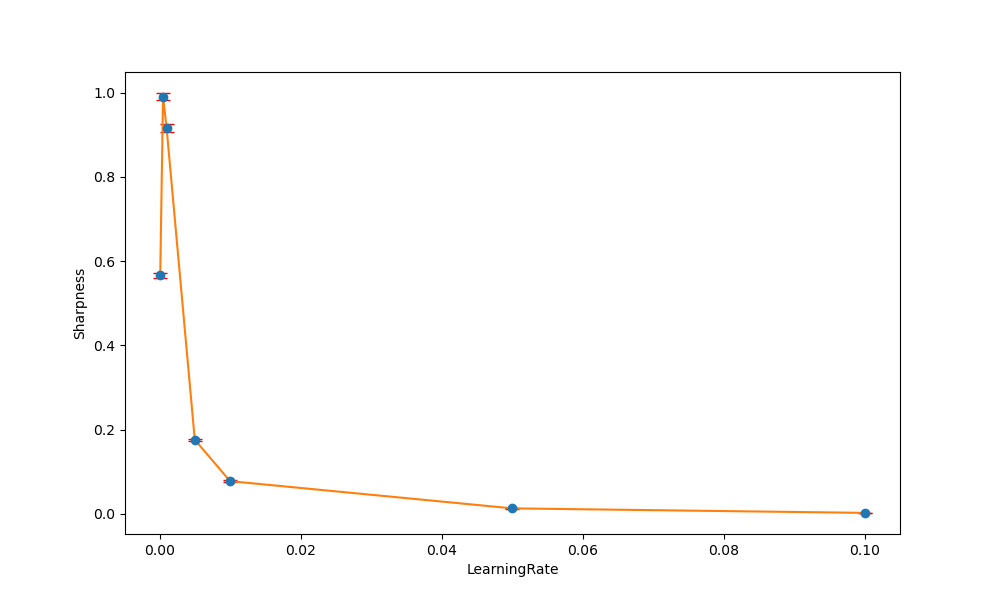
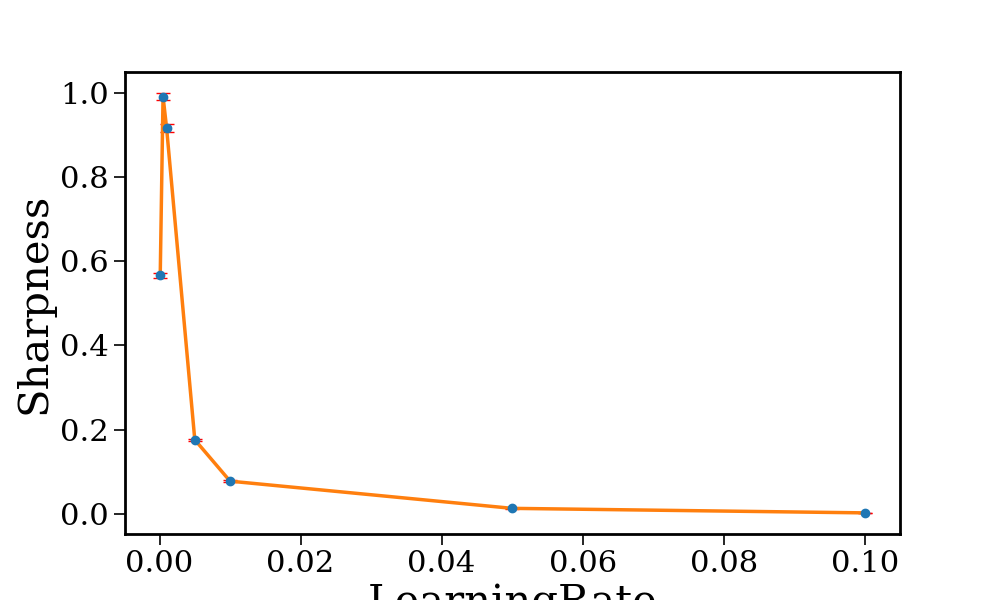
added readme

diff --git a/plot_results.py b/plot_results.py
@@ -1,0 +1,103 @@
+import json
+import pickle
+import numpy as np
+import plot_config
+import matplotlib.pyplot as plt
+
+data_dir = 'results/'
+
+batch_adagrad_file = "MLP_1_Batchsize_AdaGrad.json"
+batch_sgd_file = "MLP_1_Batchsize_SGD.json"
+lr_adagrad_file = "MLP_1_LearningRate_AdaGrad.json"
+lr_sgd_file = "MLP_1_LearningRate_SGD.json"
+
+def open_json(file):
+    with open(data_dir + file) as f:
+        data = json.load(f)
+    return data
+
+batch_adagrad_data = open_json(batch_adagrad_file)
+batch_sgd_data = open_json(batch_sgd_file)
+lr_adagrad_data = open_json(lr_adagrad_file)
+lr_sgd_data = open_json(lr_sgd_file)
+
+batch_adagrad_sharpness = batch_adagrad_data['list_of_sharpness_mean']
+batch_sgd_sharpness = batch_sgd_data['list_of_sharpness_mean']
+lr_adagrad_sharpness = lr_adagrad_data['list_of_sharpness_mean']
+lr_sgd_sharpness = lr_sgd_data['list_of_sharpness_mean']
+
+batch_adagrad_batchsize = batch_adagrad_data['effect']
+batch_sgd_batchsize = batch_sgd_data['effect']
+lr_adagrad_lr = lr_adagrad_data['effect']
+lr_sgd_lr = lr_sgd_data['effect']
+
+batch_adagrad_batchsize_effect = batch_adagrad_data['effect_name']
+batch_sgd_batchsize_effect = batch_sgd_data['effect_name']
+lr_adagrad_lr_effect = lr_adagrad_data['effect_name']
+lr_sgd_lr_effect = lr_sgd_data['effect_name']
+
+batch_adagrad_batchsize_error = batch_adagrad_data['errors']
+batch_sgd_batchsize_error = batch_sgd_data['errors']
+lr_adagrad_lr_error = lr_adagrad_data['errors']
+lr_sgd_lr_error = lr_sgd_data['errors']
+
+batch_adagrad_optimizer = batch_adagrad_data['optimizer']
+batch_sgd_optimizer = batch_sgd_data['optimizer']
+lr_adagrad_optimizer = lr_adagrad_data['optimizer']
+lr_sgd_optimizer = lr_sgd_data['optimizer']
+
+batch_effect = [batch_adagrad_batchsize, batch_sgd_batchsize]
+batch_effect_name = [batch_adagrad_batchsize_effect, batch_sgd_batchsize_effect]
+batch_sharpness = [batch_adagrad_sharpness, batch_sgd_sharpness]
+batch_errors = [batch_adagrad_batchsize_error, batch_sgd_batchsize_error]
+batch_optimizers = [batch_adagrad_optimizer, batch_sgd_optimizer]
+
+lr_effect = [lr_adagrad_lr, lr_sgd_lr]
+lr_effect_name = [lr_adagrad_lr_effect, lr_sgd_lr_effect]
+lr_sharpness = [lr_adagrad_sharpness, lr_sgd_sharpness]
+lr_errors = [lr_adagrad_lr_error, lr_sgd_lr_error]
+lr_optimizers = [lr_adagrad_optimizer, lr_sgd_optimizer]
+
+def plot_effect_vs_optimizer(effect_variables, effect_names, sharpness, errors, optimizers, plot_type, side_by_side=False, fig=None, axs=None):
+    n_plots = len(effect_variables)
+
+    if fig is None or axs is None:
+        if side_by_side:
+            fig, axs = plt.subplots(1, n_plots, figsize=(12, 6))
+        else:
+            fig, axs = plt.subplots(1, 1, figsize=(8, 6))
+            axs = [axs]
+
+    cmap = plt.get_cmap('jet')
+    c = [cmap(np.linspace(0, 0.15, 2)), cmap(np.linspace(0.85, 1, 2))]
+
+    for i in range(n_plots):
+        ax = axs[i] if side_by_side else axs[0]
+        color_sgd, color_adagrad = c[0][min(i, len(c[0])-1)], c[1][min(i, len(c[1])-1)]
+
+        if optimizers[i] == 'SGD':
+            ax.errorbar(effect_variables[i], sharpness[i], yerr=errors[i], fmt='o', color=color_sgd, capsize=9, ecolor=color_sgd, label='SGD', mec='black', ms=8, elinewidth=2, capthick=1.5)
+            ax.plot(effect_variables[i], sharpness[i], color=color_sgd, linestyle=':', alpha=0.6)
+        if optimizers[i] == 'AdaGrad':
+            ax.errorbar(effect_variables[i], sharpness[i], yerr=errors[i], fmt='*', color=color_adagrad, capsize=9, ecolor=color_adagrad, label='AdaGrad', mec='black', ms=12, elinewidth=2, capthick=1.5)
+            ax.plot(effect_variables[i], sharpness[i], color=color_adagrad, linestyle=':', alpha=0.6)
+
+        if effect_names[i] == 'Batchsize':
+            ax.set_xlabel(r'\textbf{Batch Size}')
+        if effect_names[i] == 'LearningRate':
+            ax.set_xlabel(r'\textbf{Learning Rate}')
+
+        ax.set_ylabel(r'\textbf{Sharpness}')
+        ax.grid(True, which="both", ls="--", alpha=0.4)
+        ax.legend()
+
+        if plot_type == 'loglog':
+            ax.set_xscale('log')
+            ax.set_yscale('log')
+        elif plot_type == 'semilogx':
+            ax.set_xscale('log')
+        elif plot_type == 'semilogy':
+            ax.set_yscale('log')
+
+    plt.tight_layout()
+    return fig, axs

diff --git a/run.py b/run.py
@@ -205,7 +205,22 @@ def plot_results(effect_name, model_class_name, optimizer, show_plot):
     
     if show_plot:
         plt.show()    
-    
+
+from plot_results import plot_effect_vs_optimizer
+from plot_results import batch_effect, batch_effect_name, batch_sharpness, batch_errors, batch_optimizers
+from plot_results import lr_effect, lr_effect_name, lr_sharpness, lr_errors, lr_optimizers
+
+def plot_results_2():
+    fig, ax = plt.subplots(1, 2, figsize=(13, 6))
+
+    plot_effect_vs_optimizer(batch_effect, batch_effect_name, batch_sharpness, batch_errors, batch_optimizers, 
+                                'semilogx', side_by_side=False, fig=fig, axs=[ax[0]])
+    plot_effect_vs_optimizer(lr_effect, lr_effect_name, lr_sharpness, lr_errors, lr_optimizers,
+                                'semilogx', side_by_side=False, fig=fig, axs=[ax[1]])
+    ax[0].text(0.02, 0.1, r'\textbf{(a)}', transform=ax[0].transAxes, fontsize=30, verticalalignment='top')
+    ax[1].text(0.02, 0.1, r'\textbf{(b)}', transform=ax[1].transAxes, fontsize=30, verticalalignment='top')
+
+    plt.show()     
     
 
 
@@ -252,10 +267,13 @@ if __name__ == '__main__':
     effect = LEARNING_RATES
     
     run(effect, effect_name, model_class_name, optimizer, array_iterations)
-    plot_results(effect_name, model_class_name, optimizer, show_plot = False)
+    plot_results(effect_name, model_class_name, optimizer, show_plot = True)
+
+    # Uncomment this to see the plots from the paper (same plots as plot_results(...) but different layout)
+    # plot_results_2()
 
     #--------------------------------------------------------------------------------------------
-
+    """""
     model_class_name = 'MLP_1'
     optimizer = 'AdaGrad'
     effect_name = "Batchsize"
@@ -289,3 +307,4 @@ if __name__ == '__main__':
     
     run(effect, effect_name, model_class_name, optimizer, array_iterations)
     plot_results(effect_name, model_class_name, optimizer, show_plot = False)
+    """

diff --git a/dataLoader.py b/dataLoader.py
@@ -16,6 +16,7 @@ transform = transforms.Compose(
 
 train_set = torchvision.datasets.CIFAR10(root='./data', train=True, download=True, transform=transform)
 test_set = torchvision.datasets.CIFAR10(root='./data', train=False, download=True, transform=transform)
+DIR = './data/cifar-10-batches-py/'
 
 
 class CIFAR10Dataset(Dataset):
@@ -41,9 +42,6 @@ def unpickle(file):
     with open(file, 'rb') as fo:
         dict = pickle.load(fo, encoding='bytes')
     return dict
-
-
-DIR = './data/cifar-10-batches-py/'
 
 
 def load_batches():

diff --git a/train.py b/train.py
@@ -158,4 +158,5 @@ def learn(model, model_name, batch_size, learning_rate, optimizer, tensorboard_p
 
 
 if __name__ == '__main__':
-    learn('MLP_1', 128, 1e-4, 'SGD', tensorboard_path="./tensorboard", iteration_number=0)
+    model = get_model("MLP_1")
+    learn(model, 'MLP_1', 128, 1e-4, 'SGD', tensorboard_path="./tensorboard", iteration_number=0)

diff --git a/README.md b/README.md
@@ -1,0 +1,76 @@
+# How Learning Rate, Batch Size, and Optimizer Influence Model Sharpness
+
+## Table of Contents
+- [How to use](#how-to-use)
+- [Data Loader](#dataloader)
+- [Train Model](#train)
+- [Sharpness Estimation](#sharpness_estimation)
+- [Results Saver](#resultssaver)
+
+
+
+### How to use
+
+(read what follows before running the experiment)
+
+In `run.py`, choose your experiment parameters and called the functions `run()` and `plot_results()`
+
+Example usage:
+
+```
+model_class_name = 'MLP_1'
+optimizer = 'AdaGrad'
+effect_name = "LearningRate"
+array_iterations = [0, 1, 2, 3, 4, 5]
+effect = LEARNING_RATES 
+
+run(effect, effect_name, model_class_name, optimizer, array_iterations)
+plot_results(effect_name, model_class_name, optimizer, show_plot = False)
+```
+
+-------------------------------------------------------------------------------------------
+
+
+The results are saved in json files in the folder `./results`. Therefore, the `run()` function will not do anything (besides confirming that the results are indeed in said file). If you want to reproduce the results, simply remove those JSON files from the folder. 
+
+To produce the results, the models need to be trained already. For that, the function `get_model_ready()` will train the model if it doesn't exist in the `./models` folder. 
+
+Training the models takes **more than 24 hours** since we train until convergence and have a lot of models. You can consider training fewer models with hand selected hyperparameters by changing the LEARNING_RATES and BATCH_SIZES variables at the beginning of the run.py script. You can also change the array_iterations variable called by the `run()` function to have fewer iterations (the numbers in the array are here for reproducibility, but you can use any number you want, what matters for the number of networks trained is the length of the array). 
+
+Estimating the local minimum sharpness also takes some time (15-30 minutes) which can be reduced by having fewer measures (change the variable NUM_TRIALS at the beginning of the script `sharpness_estimation.py`).
+
+Finally, the plots produced will have a different layout than the ones in the report. Uncomment the `plot_results_2()` function from the `if __name__ == '__main__':` part of `run.py` to see them.
+
+
+
+### dataLoader
+
+This script is responsible for loading and preprocessing the CIFAR-10 dataset for both training and testing.
+
+Key functions include:
+
+`load_images_labels(n_batches=5)`: This function loads the specified number of training batches (default is 5) and a single test batch from the CIFAR-10 dataset. It normalizes the image data and converts the labels to np.float32 data type. The function returns a tuple containing the training and testing datasets.
+
+Example usage:
+```train_data, test_data = load_images_labels(n_batches=3)```
+
+### train
+
+This script contains the implementation of a Multilayer Perceptron (MLP) for classifying CIFAR-10 images and a learning function for training the model.
+
+Key components include:
+
+```MLP_1```: This class defines the MLP model. It consists of a sequential layer with the structure 3072 -> 512 (ReLU) -> 256 (ReLU) -> 128 (ReLU) -> 10.
+
+```learn``` function: This function is responsible for training the model. It uses the optimizer defined in the MLP_1 class to update the model parameters. The function also implements a stopping criterion that ends the learning when the model has converged.
+
+```STOPPING_CRITERION``` and ```STOPPING_CRITERION_EPOCHS```: These constants define the stopping criterion for the learning function. If the improvement in loss is less than STOPPING_CRITERION for STOPPING_CRITERION_EPOCHS consecutive epochs, the training stops.
+
+### sharpness_estimation
+
+This scripts contains the code necessary to sample the losses of the model close to the local minimum. This is used to estimate the sharpness. 
+
+### resultsSaver
+
+This scripts is useful to visualize and change the layout of the plots quickly. It saves the measurements from the experiment in JSON files, which allows us to do them only once and save time during development. 
+
